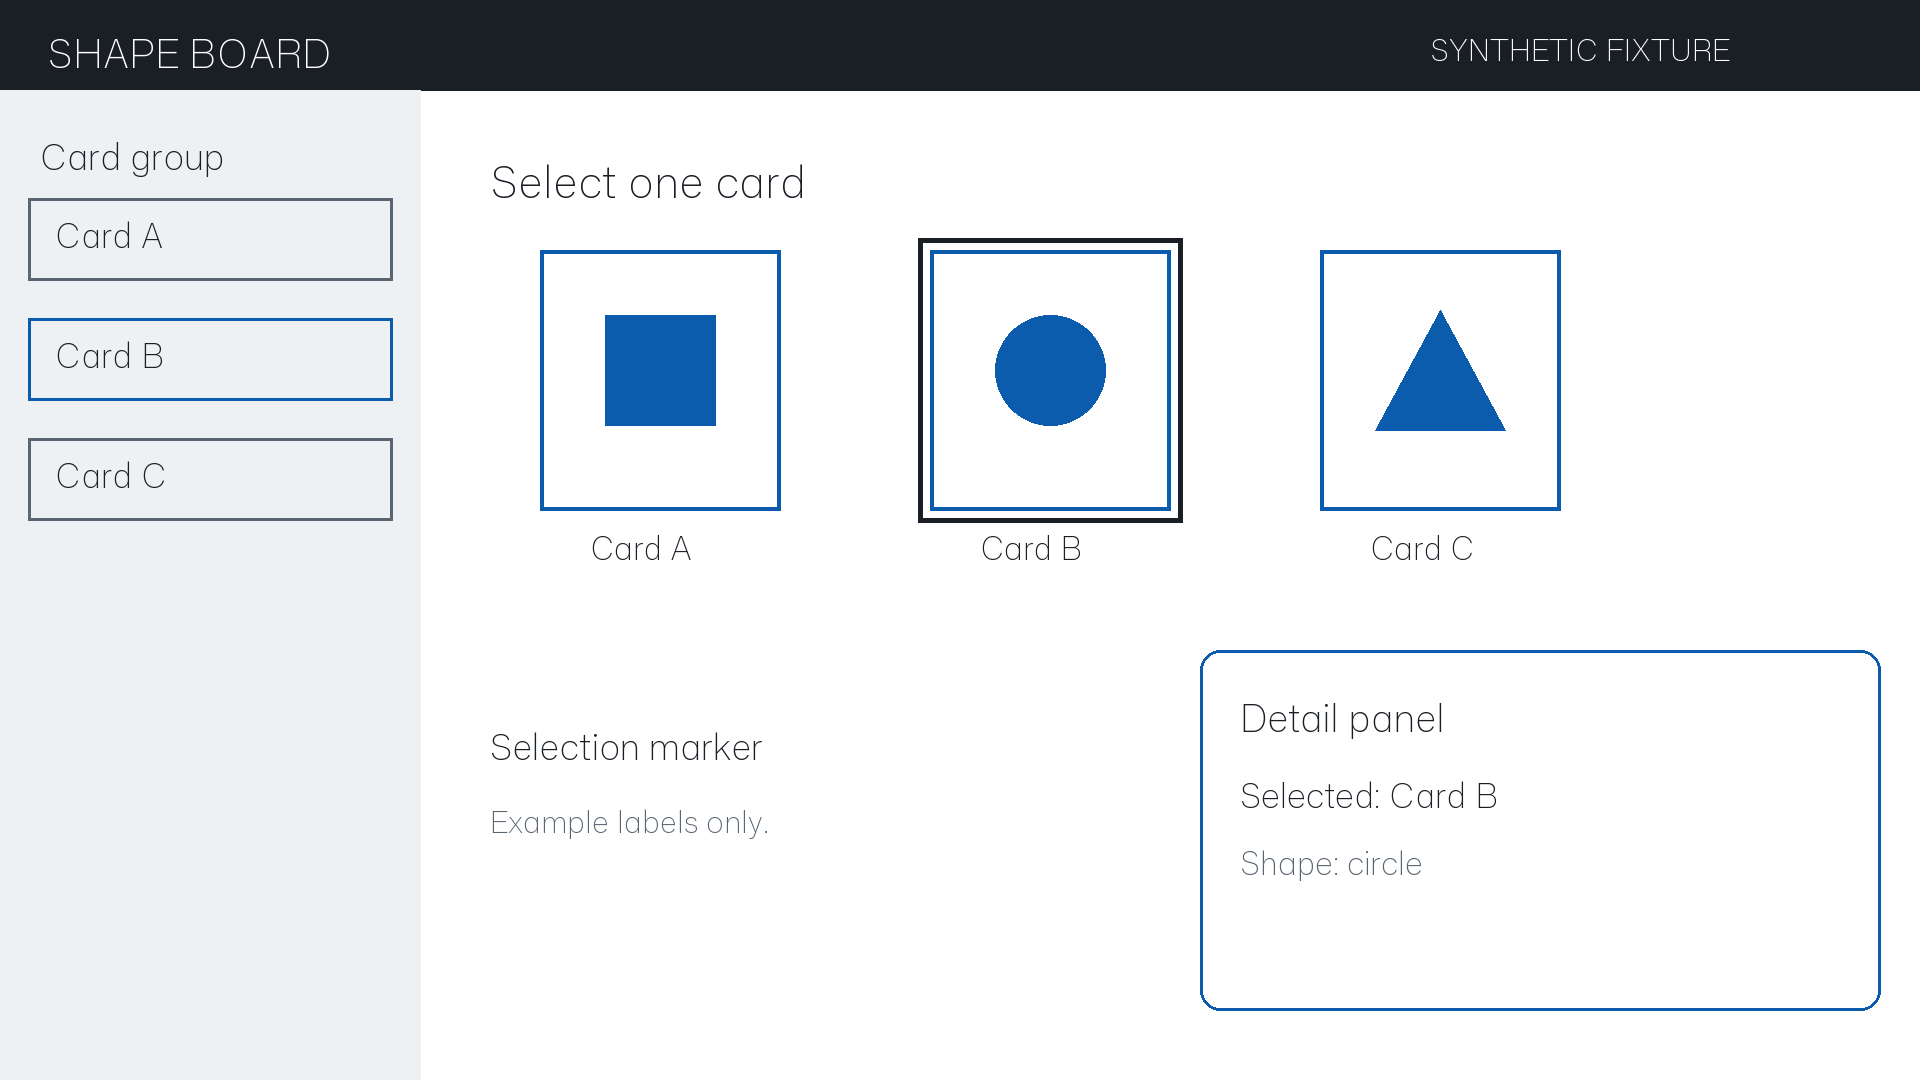
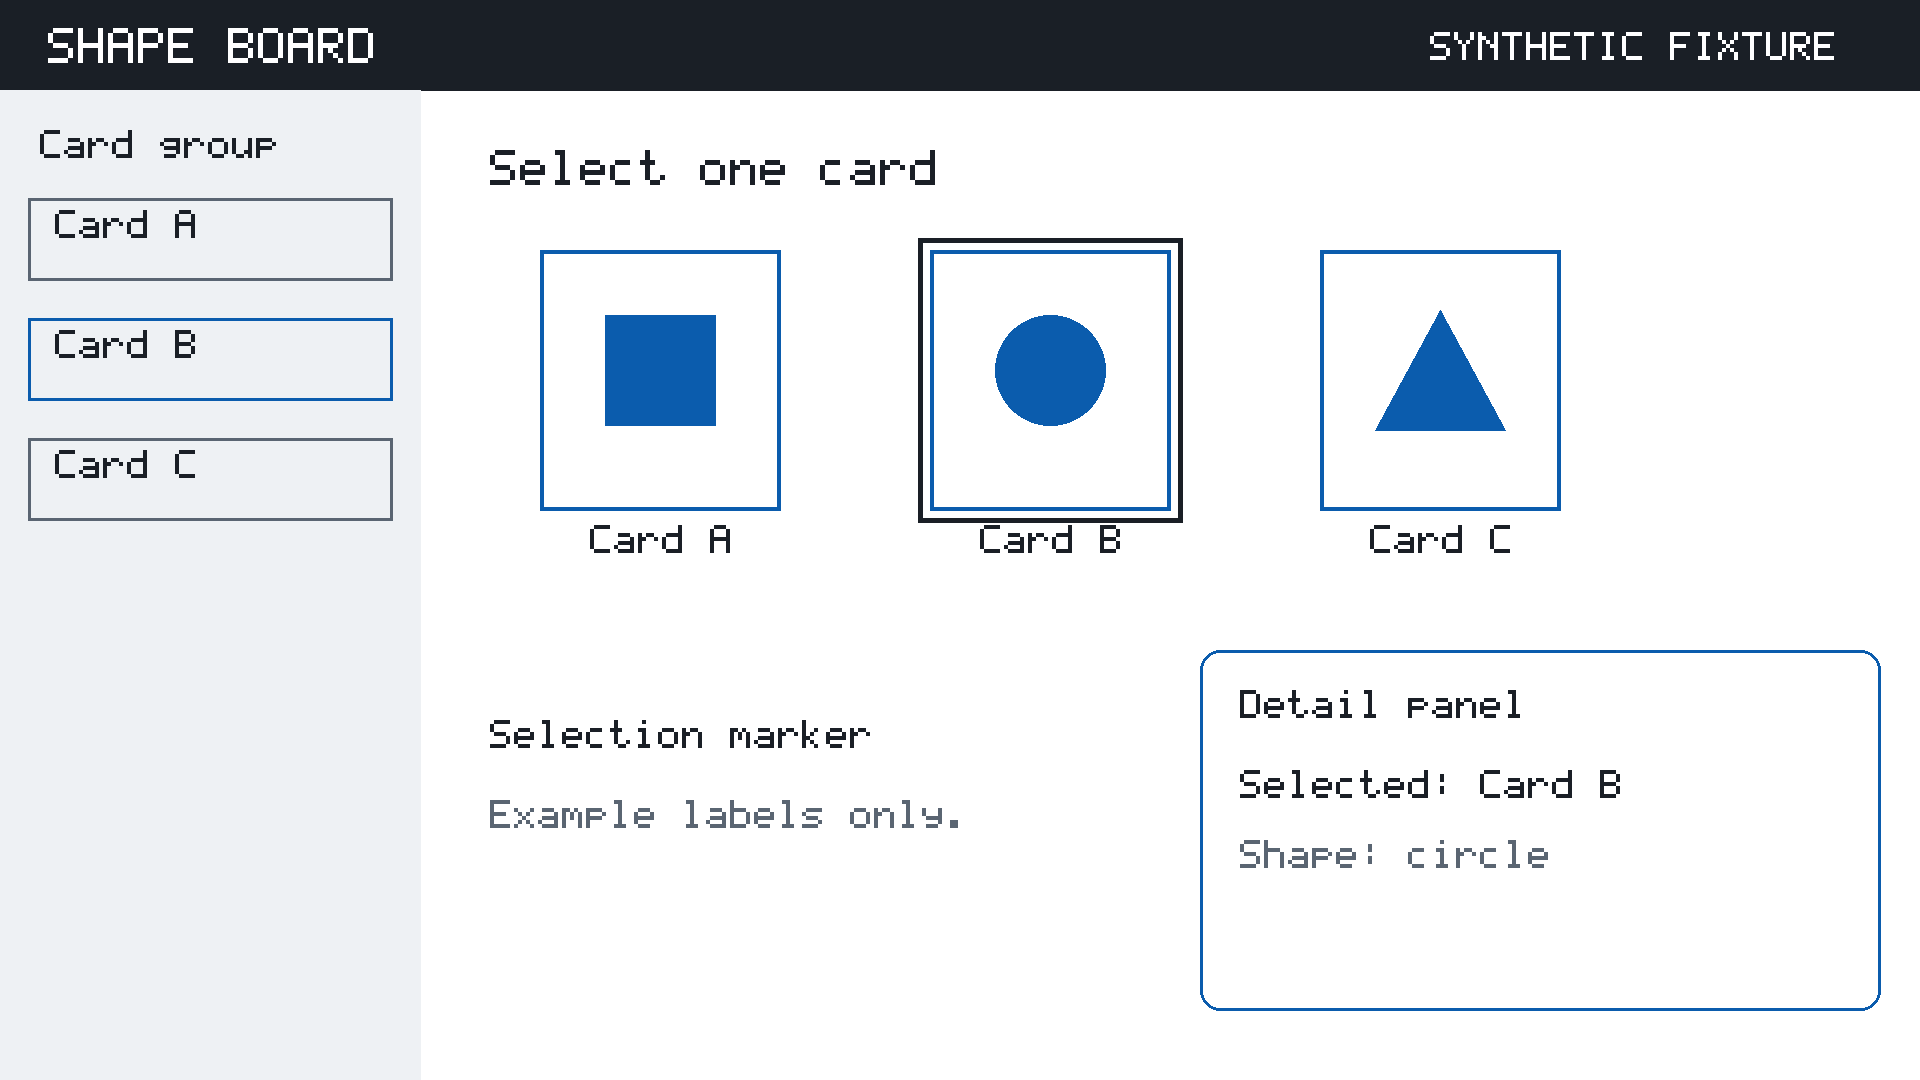
fix: make starter fixture images reproducible across Pillow wheels

diff --git a/examples/sample-demo/pipeline/fixtures.py b/examples/sample-demo/pipeline/fixtures.py
@@ -1,17 +1,91 @@
-"""Reproduce the sample's geometric test images; no external captures or product data."""
+"""Reproduce the sample's geometric test images; no external captures or product data.
+
+Labels are an embedded bitmap. FreeType hinting differs between Pillow wheels, so a
+TrueType draw cannot reproduce the same pixels on every machine that runs the tests.
+"""
 from pathlib import Path
 import argparse
 import json
 
-from PIL import Image, ImageDraw, ImageFont
+from PIL import Image, ImageDraw
+
+# 5x7 glyphs, top row first. A column of padding is added when drawing.
+_GLYPHS = {
+    " ": (0b00000, 0b00000, 0b00000, 0b00000, 0b00000, 0b00000, 0b00000),
+    "A": (0b01110, 0b10001, 0b10001, 0b11111, 0b10001, 0b10001, 0b10001),
+    "B": (0b11110, 0b10001, 0b10001, 0b11110, 0b10001, 0b10001, 0b11110),
+    "C": (0b01111, 0b10000, 0b10000, 0b10000, 0b10000, 0b10000, 0b01111),
+    "D": (0b11110, 0b10001, 0b10001, 0b10001, 0b10001, 0b10001, 0b11110),
+    "E": (0b11111, 0b10000, 0b10000, 0b11110, 0b10000, 0b10000, 0b11111),
+    "F": (0b11111, 0b10000, 0b10000, 0b11110, 0b10000, 0b10000, 0b10000),
+    "G": (0b01111, 0b10000, 0b10000, 0b10011, 0b10001, 0b10001, 0b01111),
+    "H": (0b10001, 0b10001, 0b10001, 0b11111, 0b10001, 0b10001, 0b10001),
+    "I": (0b01110, 0b00100, 0b00100, 0b00100, 0b00100, 0b00100, 0b01110),
+    "J": (0b00111, 0b00010, 0b00010, 0b00010, 0b00010, 0b10010, 0b01100),
+    "K": (0b10001, 0b10010, 0b10100, 0b11000, 0b10100, 0b10010, 0b10001),
+    "L": (0b10000, 0b10000, 0b10000, 0b10000, 0b10000, 0b10000, 0b11111),
+    "M": (0b10001, 0b11011, 0b10101, 0b10101, 0b10001, 0b10001, 0b10001),
+    "N": (0b10001, 0b11001, 0b10101, 0b10011, 0b10001, 0b10001, 0b10001),
+    "O": (0b01110, 0b10001, 0b10001, 0b10001, 0b10001, 0b10001, 0b01110),
+    "P": (0b11110, 0b10001, 0b10001, 0b11110, 0b10000, 0b10000, 0b10000),
+    "Q": (0b01110, 0b10001, 0b10001, 0b10001, 0b10101, 0b10010, 0b01101),
+    "R": (0b11110, 0b10001, 0b10001, 0b11110, 0b10100, 0b10010, 0b10001),
+    "S": (0b01111, 0b10000, 0b10000, 0b01110, 0b00001, 0b00001, 0b11110),
+    "T": (0b11111, 0b00100, 0b00100, 0b00100, 0b00100, 0b00100, 0b00100),
+    "U": (0b10001, 0b10001, 0b10001, 0b10001, 0b10001, 0b10001, 0b01110),
+    "V": (0b10001, 0b10001, 0b10001, 0b10001, 0b10001, 0b01010, 0b00100),
+    "W": (0b10001, 0b10001, 0b10001, 0b10101, 0b10101, 0b10101, 0b01010),
+    "X": (0b10001, 0b10001, 0b01010, 0b00100, 0b01010, 0b10001, 0b10001),
+    "Y": (0b10001, 0b10001, 0b01010, 0b00100, 0b00100, 0b00100, 0b00100),
+    "Z": (0b11111, 0b00001, 0b00010, 0b00100, 0b01000, 0b10000, 0b11111),
+    "a": (0b00000, 0b00000, 0b01110, 0b00001, 0b01111, 0b10001, 0b01111),
+    "b": (0b10000, 0b10000, 0b11110, 0b10001, 0b10001, 0b10001, 0b11110),
+    "c": (0b00000, 0b00000, 0b01110, 0b10000, 0b10000, 0b10000, 0b01110),
+    "d": (0b00001, 0b00001, 0b01111, 0b10001, 0b10001, 0b10001, 0b01111),
+    "e": (0b00000, 0b00000, 0b01110, 0b10001, 0b11111, 0b10000, 0b01110),
+    "f": (0b00110, 0b01001, 0b01000, 0b11100, 0b01000, 0b01000, 0b01000),
+    "g": (0b00000, 0b00000, 0b01111, 0b10001, 0b01111, 0b00001, 0b01110),
+    "h": (0b10000, 0b10000, 0b11110, 0b10001, 0b10001, 0b10001, 0b10001),
+    "i": (0b00100, 0b00000, 0b01100, 0b00100, 0b00100, 0b00100, 0b01110),
+    "j": (0b00010, 0b00000, 0b00110, 0b00010, 0b00010, 0b10010, 0b01100),
+    "k": (0b10000, 0b10000, 0b10010, 0b10100, 0b11000, 0b10100, 0b10010),
+    "l": (0b01100, 0b00100, 0b00100, 0b00100, 0b00100, 0b00100, 0b01110),
+    "m": (0b00000, 0b00000, 0b11010, 0b10101, 0b10101, 0b10001, 0b10001),
+    "n": (0b00000, 0b00000, 0b10110, 0b11001, 0b10001, 0b10001, 0b10001),
+    "o": (0b00000, 0b00000, 0b01110, 0b10001, 0b10001, 0b10001, 0b01110),
+    "p": (0b00000, 0b00000, 0b11110, 0b10001, 0b11110, 0b10000, 0b10000),
+    "q": (0b00000, 0b00000, 0b01111, 0b10001, 0b01111, 0b00001, 0b00001),
+    "r": (0b00000, 0b00000, 0b10110, 0b11001, 0b10000, 0b10000, 0b10000),
+    "s": (0b00000, 0b00000, 0b01111, 0b10000, 0b01110, 0b00001, 0b11110),
+    "t": (0b01000, 0b01000, 0b11100, 0b01000, 0b01000, 0b01001, 0b00110),
+    "u": (0b00000, 0b00000, 0b10001, 0b10001, 0b10001, 0b10011, 0b01101),
+    "v": (0b00000, 0b00000, 0b10001, 0b10001, 0b10001, 0b01010, 0b00100),
+    "w": (0b00000, 0b00000, 0b10001, 0b10001, 0b10101, 0b10101, 0b01010),
+    "x": (0b00000, 0b00000, 0b10001, 0b01010, 0b00100, 0b01010, 0b10001),
+    "y": (0b00000, 0b00000, 0b10001, 0b10001, 0b01111, 0b00001, 0b01110),
+    "z": (0b00000, 0b00000, 0b11111, 0b00010, 0b00100, 0b01000, 0b11111),
+    ":": (0b00000, 0b00100, 0b00100, 0b00000, 0b00100, 0b00100, 0b00000),
+    ".": (0b00000, 0b00000, 0b00000, 0b00000, 0b00000, 0b01100, 0b01100),
+}
+
+
+def _label(image: Image.Image, xy: tuple[int, int], text: str, scale: int, fill: str) -> None:
+    """Draw text with the embedded bitmap so the result is identical on every platform."""
+    x, y = xy
+    width, height = image.size
+    for char in text:
+        rows = _GLYPHS[char]
+        for row, bits in enumerate(rows):
+            for col in range(5):
+                if bits & (1 << (4 - col)):
+                    left = x + col * scale
+                    top = y + row * scale
+                    if 0 <= left and left + scale <= width and 0 <= top and top + scale <= height:
+                        image.paste(fill, (left, top, left + scale, top + scale))
+        x += 6 * scale
 
 
 def generate(root: Path) -> None:
-    font_path = root / "assets/fonts/MonaSansVF.ttf"
-
-    def font(size):
-        return ImageFont.truetype(str(font_path), size)
-
     brand = root / "assets/brand"
     ui = root / "sources/ui"
     brand.mkdir(parents=True, exist_ok=True)
@@ -25,17 +99,17 @@ def generate(root: Path) -> None:
     image = Image.new("RGB", (1920, 1080), "#FFFFFF")
     draw = ImageDraw.Draw(image)
     draw.rectangle((0, 0, 1920, 90), fill="#1A1F26")
-    draw.text((48, 24), "SHAPE BOARD", font=font(40), fill="#FFFFFF")
-    draw.text((1430, 28), "SYNTHETIC FIXTURE", font=font(30), fill="#FFFFFF")
+    _label(image, (48, 28), "SHAPE BOARD", 5, "#FFFFFF")
+    _label(image, (1430, 32), "SYNTHETIC FIXTURE", 4, "#FFFFFF")
     draw.rectangle((0, 90, 420, 1080), fill="#EEF1F4")
-    draw.text((40, 130), "Card group", font=font(36), fill="#1A1F26")
+    _label(image, (40, 130), "Card group", 4, "#1A1F26")
     for i, label in enumerate(("Card A", "Card B", "Card C")):
         y = 210 + i * 120
         draw.rectangle((28, y - 12, 392, y + 70), outline="#0B5CAD" if i == 1 else "#5A6572", width=3)
-        draw.text((55, y), label, font=font(34), fill="#1A1F26")
+        _label(image, (55, y), label, 4, "#1A1F26")
         x = 660 + i * 390
         draw.rectangle((x - 120, 250, x + 120, 510), outline="#0B5CAD", width=4)
-        draw.text((x - 70, 525), label, font=font(32), fill="#1A1F26")
+        _label(image, (x - 70, 525), label, 4, "#1A1F26")
         if i == 0:
             draw.rectangle((x - 55, 315, x + 55, 425), fill="#0B5CAD")
         elif i == 1:
@@ -43,13 +117,13 @@ def generate(root: Path) -> None:
             draw.rectangle((x - 132, 238, x + 132, 522), outline="#1A1F26", width=5)
         else:
             draw.polygon(((x, 310), (x - 65, 430), (x + 65, 430)), fill="#0B5CAD")
-    draw.text((490, 150), "Select one card", font=font(44), fill="#1A1F26")
+    _label(image, (490, 150), "Select one card", 5, "#1A1F26")
     draw.rounded_rectangle((1200, 650, 1880, 1010), radius=20, outline="#0B5CAD", width=3)
-    draw.text((1240, 690), "Detail panel", font=font(38), fill="#1A1F26")
-    draw.text((1240, 770), "Selected: Card B", font=font(34), fill="#1A1F26")
-    draw.text((1240, 840), "Shape: circle", font=font(32), fill="#5A6572")
-    draw.text((490, 720), "Selection marker", font=font(36), fill="#1A1F26")
-    draw.text((490, 800), "Example labels only.", font=font(30), fill="#5A6572")
+    _label(image, (1240, 690), "Detail panel", 4, "#1A1F26")
+    _label(image, (1240, 770), "Selected: Card B", 4, "#1A1F26")
+    _label(image, (1240, 840), "Shape: circle", 4, "#5A6572")
+    _label(image, (490, 720), "Selection marker", 4, "#1A1F26")
+    _label(image, (490, 800), "Example labels only.", 4, "#5A6572")
     image.save(ui / "board.png")
     (ui / "board-regions.json").write_text(json.dumps({
         "source": "sources/ui/board.png", "frame": [1920, 1080],

diff --git a/tests/test_starter_privacy.py b/tests/test_starter_privacy.py
@@ -2,10 +2,10 @@
 import json
 import importlib.util
 from pathlib import Path
-import shutil
 
 import pytest
 import yaml
+from PIL import Image
 
 from vpg import cli, scoring
 from vpg.engine import Engine, EngineError
@@ -101,14 +101,19 @@ def test_release_packet_uses_the_same_private_preference_store_as_the_engine(tmp
     assert verify._current_model(project, "Example Reviewer") == model
 
 
+def _raster(path: Path) -> tuple[str, tuple[int, int], bytes]:
+    with Image.open(path) as image:
+        return image.mode, image.size, image.tobytes()
+
+
 def test_sample_images_are_reproducible_from_geometric_fixture_code(tmp_path):
     sample = PKG_ROOT / "examples/sample-demo"
     spec = importlib.util.spec_from_file_location("sample_fixture_images", sample / "pipeline/fixtures.py")
     module = importlib.util.module_from_spec(spec)
     spec.loader.exec_module(module)
-    fonts = tmp_path / "assets/fonts"
-    fonts.mkdir(parents=True)
-    shutil.copyfile(sample / "assets/fonts/MonaSansVF.ttf", fonts / "MonaSansVF.ttf")
     module.generate(tmp_path)
-    for name in ("sources/ui/board.png", "sources/ui/board-regions.json", "assets/brand/shape-mark.png"):
-        assert (sample / name).read_bytes() == (tmp_path / name).read_bytes(), name
+    # PNG bytes are not portable: Pillow wheels bundle different zlib builds.
+    for name in ("sources/ui/board.png", "assets/brand/shape-mark.png"):
+        assert _raster(sample / name) == _raster(tmp_path / name), name
+    name = "sources/ui/board-regions.json"
+    assert (sample / name).read_bytes() == (tmp_path / name).read_bytes(), name

diff --git a/docs/dependencies.md b/docs/dependencies.md
@@ -14,8 +14,9 @@ does not call a model or network service.
 ## Synthetic sample
 
 The sample uses generated geometric cards, invented labels and a licensed font.
-`examples/sample-demo/pipeline/fixtures.py` reproduces its image inputs. The
-sample renders with Pillow and ffmpeg. macOS `say` is optional; the alternative
+`examples/sample-demo/pipeline/fixtures.py` reproduces its image inputs. Those
+labels are an embedded bitmap, so the rasters do not depend on FreeType.
+The sample renders with Pillow and ffmpeg. macOS `say` is optional; the alternative
 tone track is explicitly degraded and cannot establish listening quality.
 
 ## Glassbox
